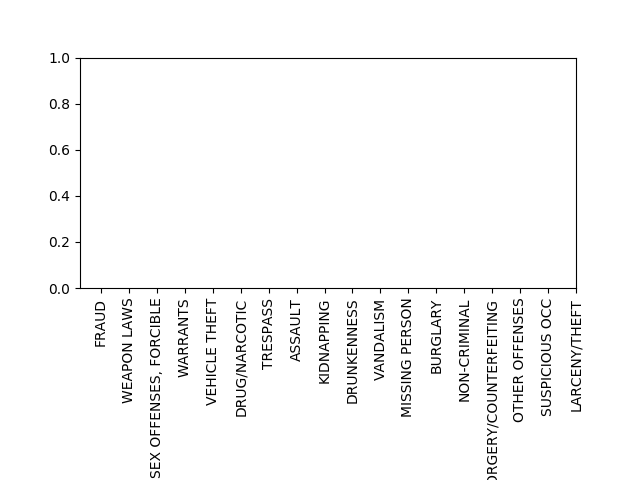
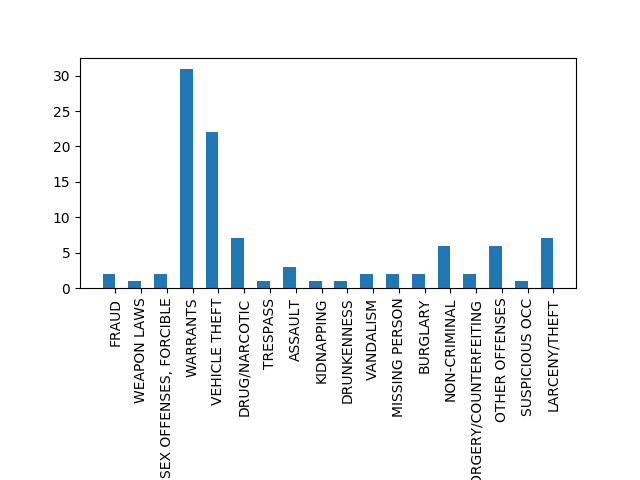
small typos

diff --git a/source/graph.py b/source/graph.py
@@ -89,10 +89,12 @@ def visualize_type():
     #Set where label hits x-axis
     xlocations = np.arange(len(labels)) + 0.5
 
+    #Width of each bar that will be plotted
     width = 0.5
 
-    #Width of each bar that will be plotted
     #Assign data to a bar plot
+    plt.bar(xlocations, counter.values(), width=width)
+    
     #Assign label and tick location to x-axis
     plt.xticks(xlocations + width / 2, labels, rotation=90)
 
